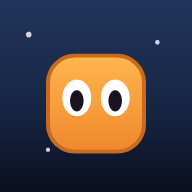
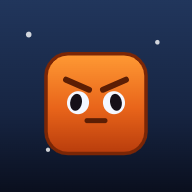
3. oyun: yavaşlat + kontrol kolaylaştır + karakteri cool yap
Çocuğun geri bildirimi:
- "Çok zor, sürekli ilerleme zorlaştırıyor" → YATAY_HIZ 5.2→4.2,
  YERCEKIMI 0.75→0.68, HAVADA_KONTROL 0.75→0.95, durma keskinleşti
  (vx lerp 0.25→0.34) — kayma azaldı, kontrol kolaylaştı
- "Karakter fazla çocuksu" → çatık kaşlar, küçük keskin eğik gözler,
  düz ağız, koyu ateş renkli gövde; simge de yeni karaktere güncellendi

Changed region(s): [[0.2188, 0.25, 0.7812, 0.8125]]

diff --git a/3-zipla/index.html b/3-zipla/index.html
@@ -41,10 +41,10 @@
 // ===========================================================
 //   AYARLAR — bu sayıları değiştir, kaydet, F5'e bas!
 // ===========================================================
-var YERCEKIMI      = 0.75;   // Karakter ne kadar hızlı düşsün
+var YERCEKIMI      = 0.68;   // Karakter ne kadar hızlı düşsün (daha yumuşak)
 var ZIPLAMA_GUCU   = 15;     // Zıplayınca ne kadar yükselsin
-var YATAY_HIZ      = 5.2;    // Sağa-sola ne kadar hızlı gitsin
-var HAVADA_KONTROL = 0.75;   // Havadayken yön değiştirme gücü (1 = yerdeki kadar)
+var YATAY_HIZ      = 4.2;    // Sağa-sola ne kadar hızlı gitsin (yavaşlatıldı, kontrol kolay)
+var HAVADA_KONTROL = 0.95;   // Havadayken yön değiştirme gücü (havada dönmek kolay)
 var CIFT_ZIPLAMA   = true;   // Havada bir kez daha zıplayabilsin mi?
 var KATSAYI_EZILME = 0.16;   // Zıplarken/inince squash & stretch gücü
 
@@ -359,7 +359,7 @@ function fizik() {
   if (tuslar["ArrowLeft"] || tuslar["a"] || tuslar["A"] || solBasili) yon -= 1;
   if (tuslar["ArrowRight"] || tuslar["d"] || tuslar["D"] || sagBasili) yon += 1;
   var kontrol = oyuncu.yerde ? 1 : HAVADA_KONTROL;
-  oyuncu.vx = karistir(oyuncu.vx, yon * YATAY_HIZ, 0.25 * kontrol);
+  oyuncu.vx = karistir(oyuncu.vx, yon * YATAY_HIZ, 0.34 * kontrol);   // çabuk dur (kayma az)
   if (yon !== 0) oyuncu.bakis = yon;
 
   // yerçekimi
@@ -631,29 +631,49 @@ function karakteriCiz() {
   ctx.translate(x, y);
   ctx.scale(ex, ey);
 
-  // gövde (yuvarlak köşeli kare)
+  // gövde (yuvarlak köşeli kare) — daha koyu, keskin renk
   var gr = ctx.createLinearGradient(0, -b * 0.5, 0, b * 0.5);
-  gr.addColorStop(0, "#ffb64d"); gr.addColorStop(1, "#f0872e");
+  gr.addColorStop(0, "#ff9a34"); gr.addColorStop(0.55, "#e8641a"); gr.addColorStop(1, "#b83c0c");
   ctx.fillStyle = gr;
-  ctx.beginPath(); ctx.roundRect(-b * 0.42, -b * 0.42, b * 0.84, b * 0.84, b * 0.24); ctx.fill();
-  // kenar
-  ctx.strokeStyle = "#c96a1e"; ctx.lineWidth = 2;
-  ctx.beginPath(); ctx.roundRect(-b * 0.42, -b * 0.42, b * 0.84, b * 0.84, b * 0.24); ctx.stroke();
+  ctx.beginPath(); ctx.roundRect(-b * 0.42, -b * 0.42, b * 0.84, b * 0.84, b * 0.20); ctx.fill();
+  // koyu kenar
+  ctx.strokeStyle = "#7a2606"; ctx.lineWidth = 2.5;
+  ctx.beginPath(); ctx.roundRect(-b * 0.42, -b * 0.42, b * 0.84, b * 0.84, b * 0.20); ctx.stroke();
+  // üstte parlaklık (hacim)
+  ctx.fillStyle = "rgba(255,255,255,0.12)";
+  ctx.beginPath(); ctx.roundRect(-b * 0.34, -b * 0.36, b * 0.68, b * 0.22, b * 0.12); ctx.fill();
 
-  // gözler (bakış yönüne kayar)
-  var bx = oyuncu.bakis * b * 0.07;
+  var bx = oyuncu.bakis * b * 0.06;
   var kirp = oyuncu.gozKirp > 0;
-  for (var g = -1; g <= 1; g += 2) {
-    ctx.fillStyle = "#fff";
-    ctx.beginPath(); ctx.ellipse(g * b * 0.17 + bx * 0.4, -b * 0.06, b * 0.13, kirp ? b * 0.03 : b * 0.16, 0, 0, 6.2832); ctx.fill();
-    if (!kirp) {
-      ctx.fillStyle = "#1a1420";
-      ctx.beginPath(); ctx.ellipse(g * b * 0.17 + bx, -b * 0.04, b * 0.06, b * 0.09, 0, 0, 6.2832); ctx.fill();
-    }
+
+  // çatık kaşlar (ciddi / kararlı ifade)
+  ctx.strokeStyle = "#5c1e04"; ctx.lineWidth = b * 0.06; ctx.lineCap = "round";
+  for (var kg = -1; kg <= 1; kg += 2) {
+    ctx.beginPath();
+    ctx.moveTo(kg * b * 0.30 + bx * 0.5, -b * 0.24);
+    ctx.lineTo(kg * b * 0.07 + bx * 0.5, -b * 0.15);
+    ctx.stroke();
   }
-  // ağız (küçük)
-  ctx.strokeStyle = "#8a4a16"; ctx.lineWidth = 2; ctx.lineCap = "round";
-  ctx.beginPath(); ctx.arc(bx, b * 0.16, b * 0.10, 0.15, Math.PI - 0.15); ctx.stroke();
+
+  // gözler (küçük, keskin, hafif eğik — cool bakış)
+  for (var g = -1; g <= 1; g += 2) {
+    ctx.save();
+    ctx.translate(g * b * 0.18 + bx * 0.4, -b * 0.02);
+    ctx.rotate(g * -0.18);
+    ctx.fillStyle = "#f4f7ff";
+    ctx.beginPath(); ctx.ellipse(0, 0, b * 0.11, kirp ? b * 0.02 : b * 0.115, 0, 0, 6.2832); ctx.fill();
+    if (!kirp) {
+      ctx.fillStyle = "#161018";
+      ctx.beginPath(); ctx.ellipse(g * b * 0.02 + oyuncu.bakis * b * 0.03, 0, b * 0.058, b * 0.085, 0, 0, 6.2832); ctx.fill();
+      ctx.fillStyle = "#fff";
+      ctx.beginPath(); ctx.arc(g * b * 0.02 - b * 0.02, -b * 0.03, b * 0.02, 0, 6.2832); ctx.fill();
+    }
+    ctx.restore();
+  }
+
+  // ağız (düz, kısa — nötr/ciddi)
+  ctx.strokeStyle = "#5c1e04"; ctx.lineWidth = b * 0.05; ctx.lineCap = "round";
+  ctx.beginPath(); ctx.moveTo(bx - b * 0.09, b * 0.17); ctx.lineTo(bx + b * 0.09, b * 0.17); ctx.stroke();
 
   ctx.restore();
 }
